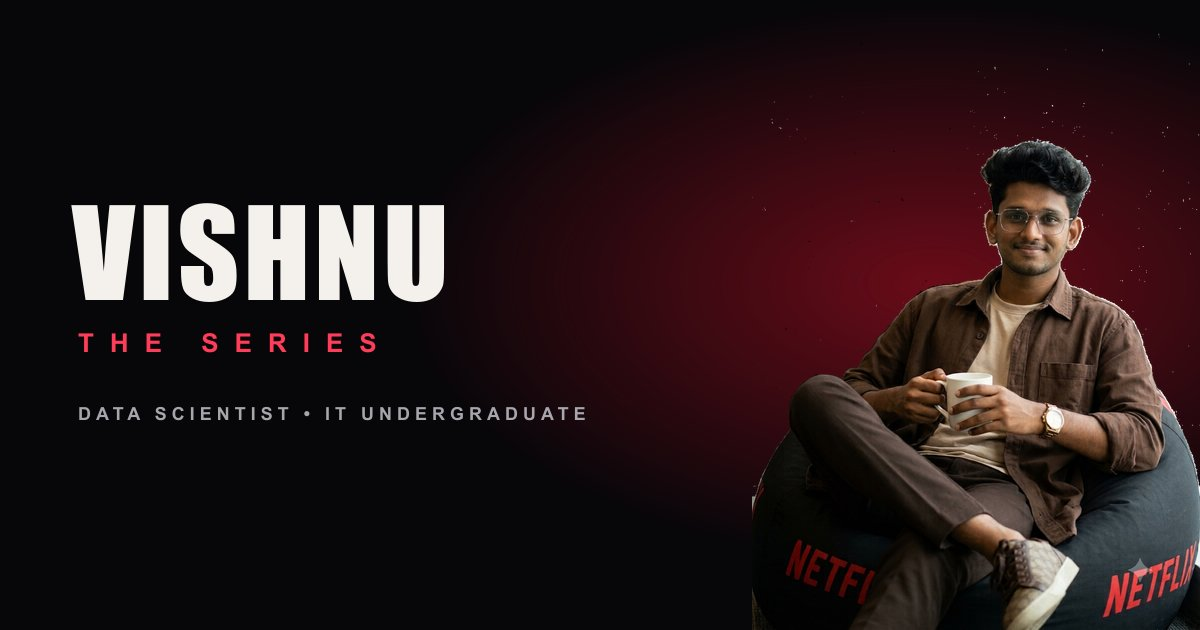
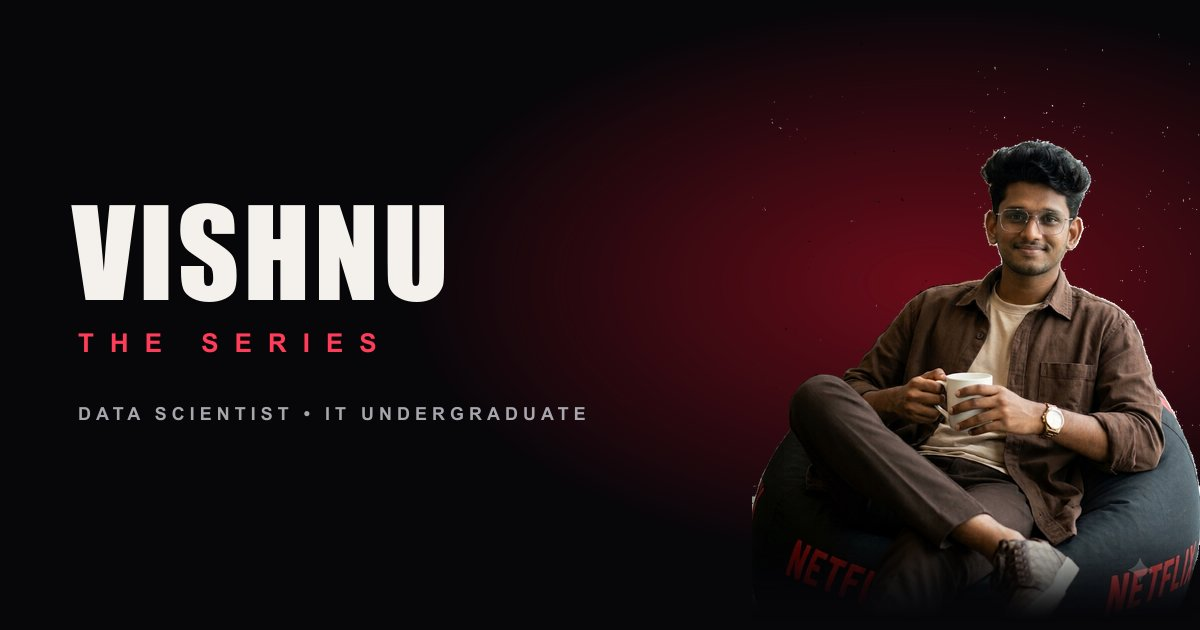
Fix hero floating chips layout, clean perimeter background artifact, and apply smooth bottom dissolve

Changed region(s): [[0.8325, 0.8444, 1.0, 1.0], [0.6475, 0.8746, 0.8017, 1.0]]

diff --git a/src/components/Hero.tsx b/src/components/Hero.tsx
@@ -44,9 +44,9 @@ export default function Hero({ onPlay, onResume, profileId }: { onPlay: () => vo
   ];
 
   const floating = [
-    { text: education[0].score, sub: 'B.Tech IT · Karpagam', pos: 'left-[2%] top-[30%]', depth: 1 },
-    { text: '444k+ Global Rank', sub: 'LeetCode · 1400+ CodeChef', pos: 'right-[0%] top-[18%]', depth: -1 },
-    { text: 'PostgreSQL · SQL · Java', sub: 'Core Data Stack', pos: 'right-[4%] bottom-[24%]', depth: 0.6 },
+    { text: education[0].score, sub: 'B.Tech IT · Karpagam', pos: 'left-[-2%] top-[46%]', depth: 1 },
+    { text: '444k+ Global Rank', sub: 'LeetCode · 1400+ CodeChef', pos: 'right-[2%] top-[14%]', depth: -1 },
+    { text: 'PostgreSQL · SQL · Java', sub: 'Core Data Stack', pos: 'right-[2%] bottom-[16%]', depth: 0.6 },
   ];
 
   return (
@@ -197,15 +197,15 @@ function FloatChip({ text, sub, pos, depth, index, mx, my }: { text: string; sub
   const y = useTransform(my, (n: number) => n * depth);
   return (
     <motion.div
-      className={`glass sheen-card absolute hidden rounded-xl px-4 py-2.5 md:block ${pos} transition-all duration-300 hover:shadow-[0_12px_35px_rgba(229,19,43,0.3)] hover:border-white/30`}
+      className={`glass sheen-card pointer-events-auto absolute hidden w-max max-w-[280px] whitespace-nowrap rounded-xl px-4 py-2.5 shadow-xl shadow-black/50 ring-1 ring-white/10 lg:block ${pos} transition-all duration-300 hover:border-crimson-2/40 hover:shadow-[0_12px_35px_rgba(229,19,43,0.3)]`}
       style={{ x, y }}
       initial={{ opacity: 0, filter: 'blur(8px)', y: 24 }}
       animate={{ opacity: 1, filter: 'blur(0px)', y: 0 }}
       transition={{ duration: 1.0, delay: 1.1 + index * 0.16, ease: EASE }}
     >
       <motion.div animate={{ y: [0, -8, 0] }} transition={{ duration: 4.2 + index * 1.4, repeat: Infinity, ease: 'easeInOut' }}>
-        <p className="text-sm font-semibold text-bone">{text}</p>
-        <p className="text-[10px] uppercase tracking-[0.2em] text-mist">{sub}</p>
+        <p className="text-sm font-semibold tracking-wide text-bone">{text}</p>
+        <p className="text-[10px] font-medium uppercase tracking-[0.2em] text-mist">{sub}</p>
       </motion.div>
     </motion.div>
   );
